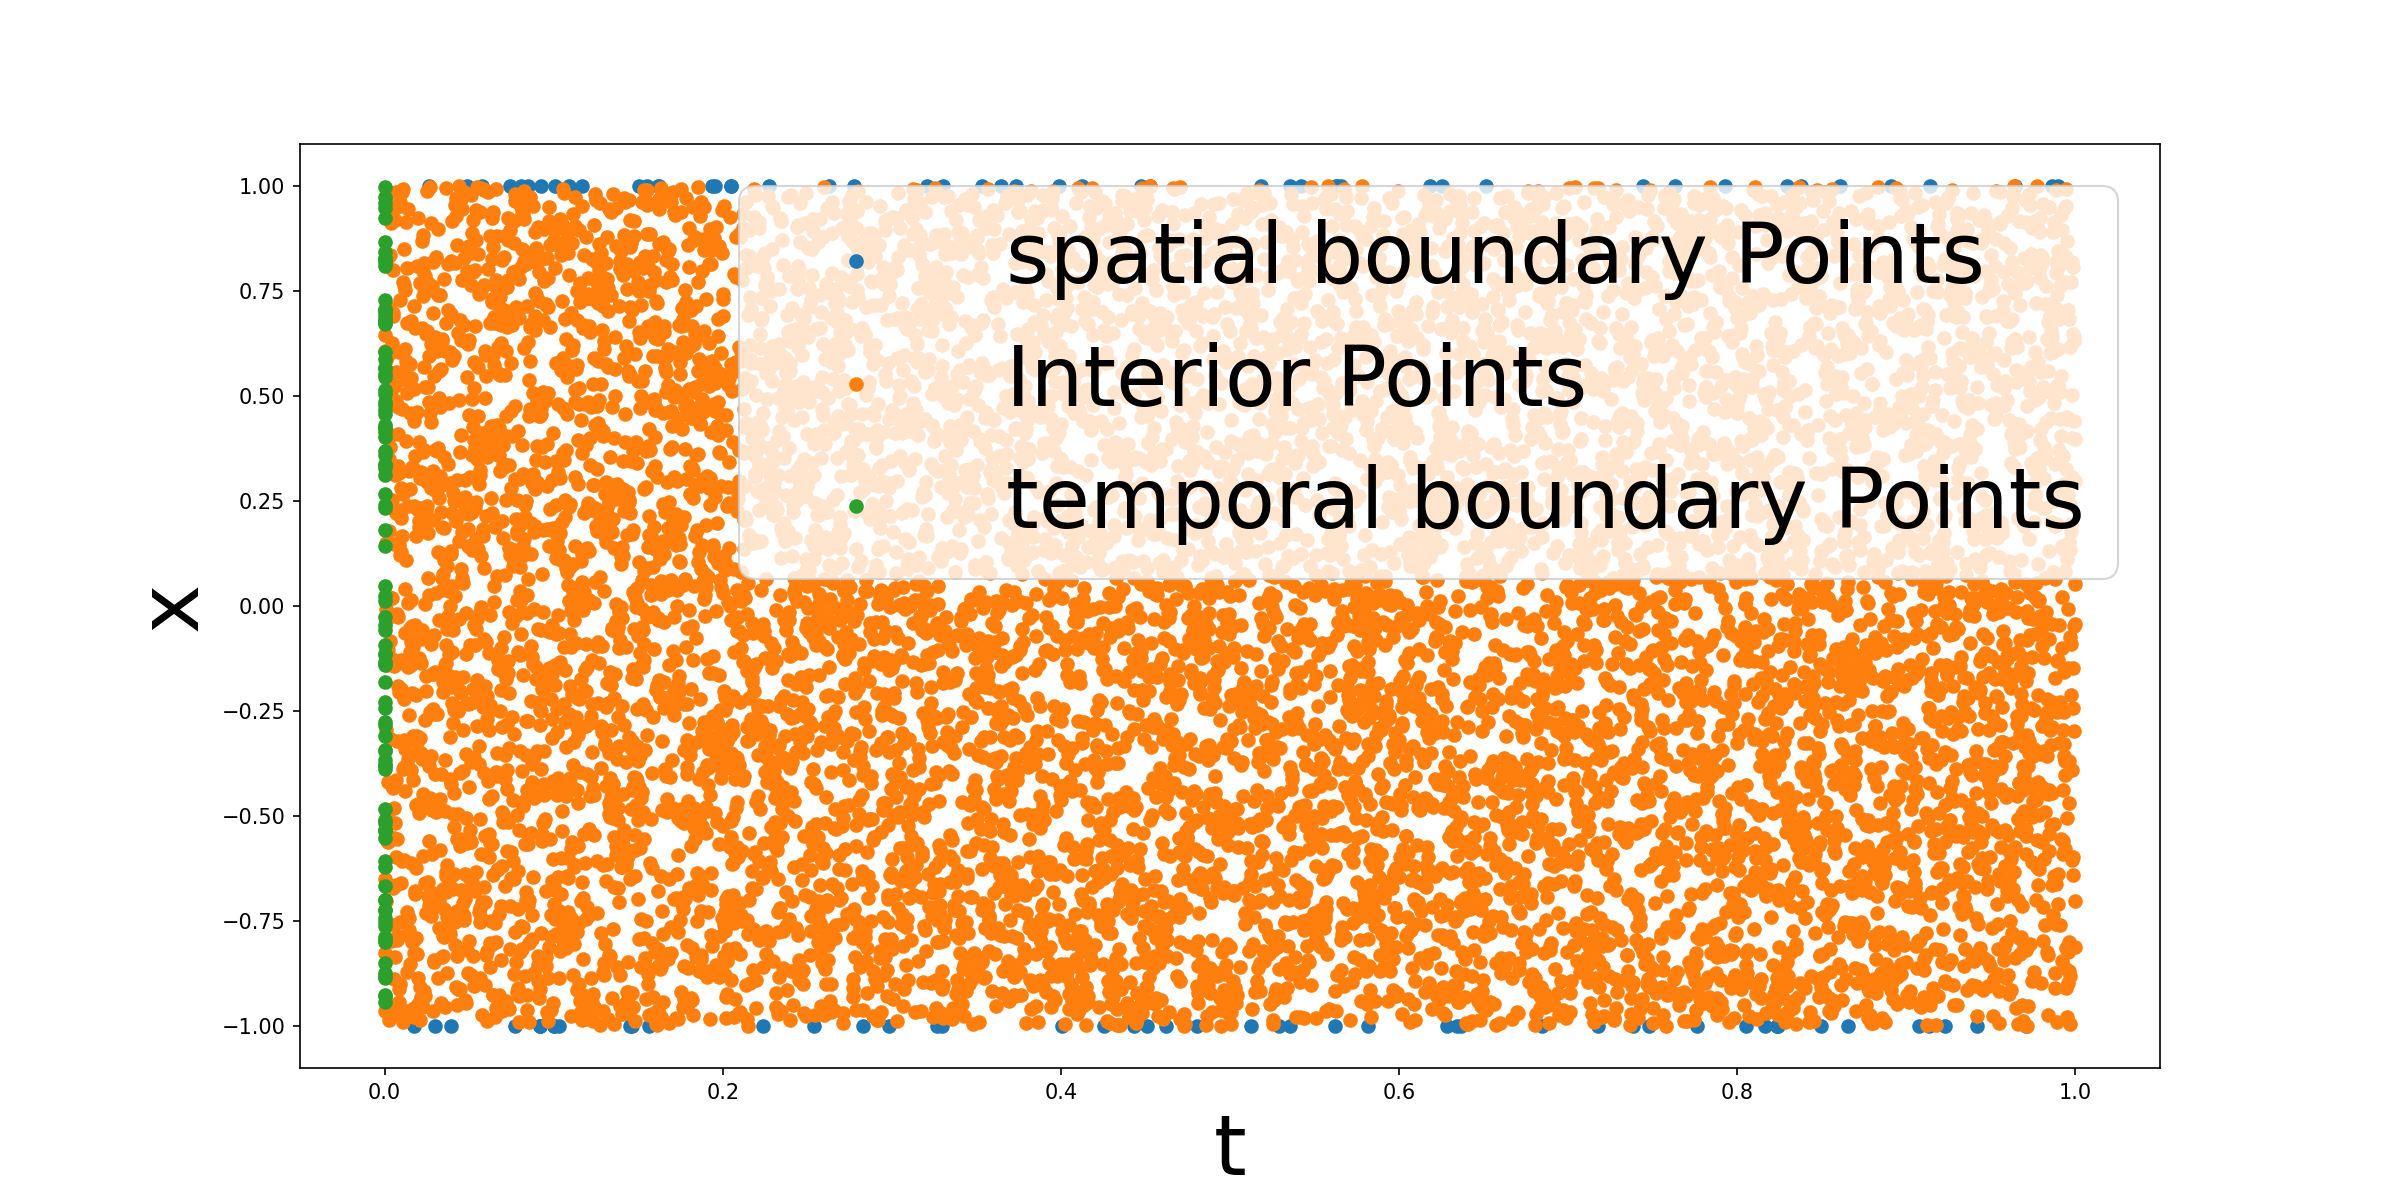
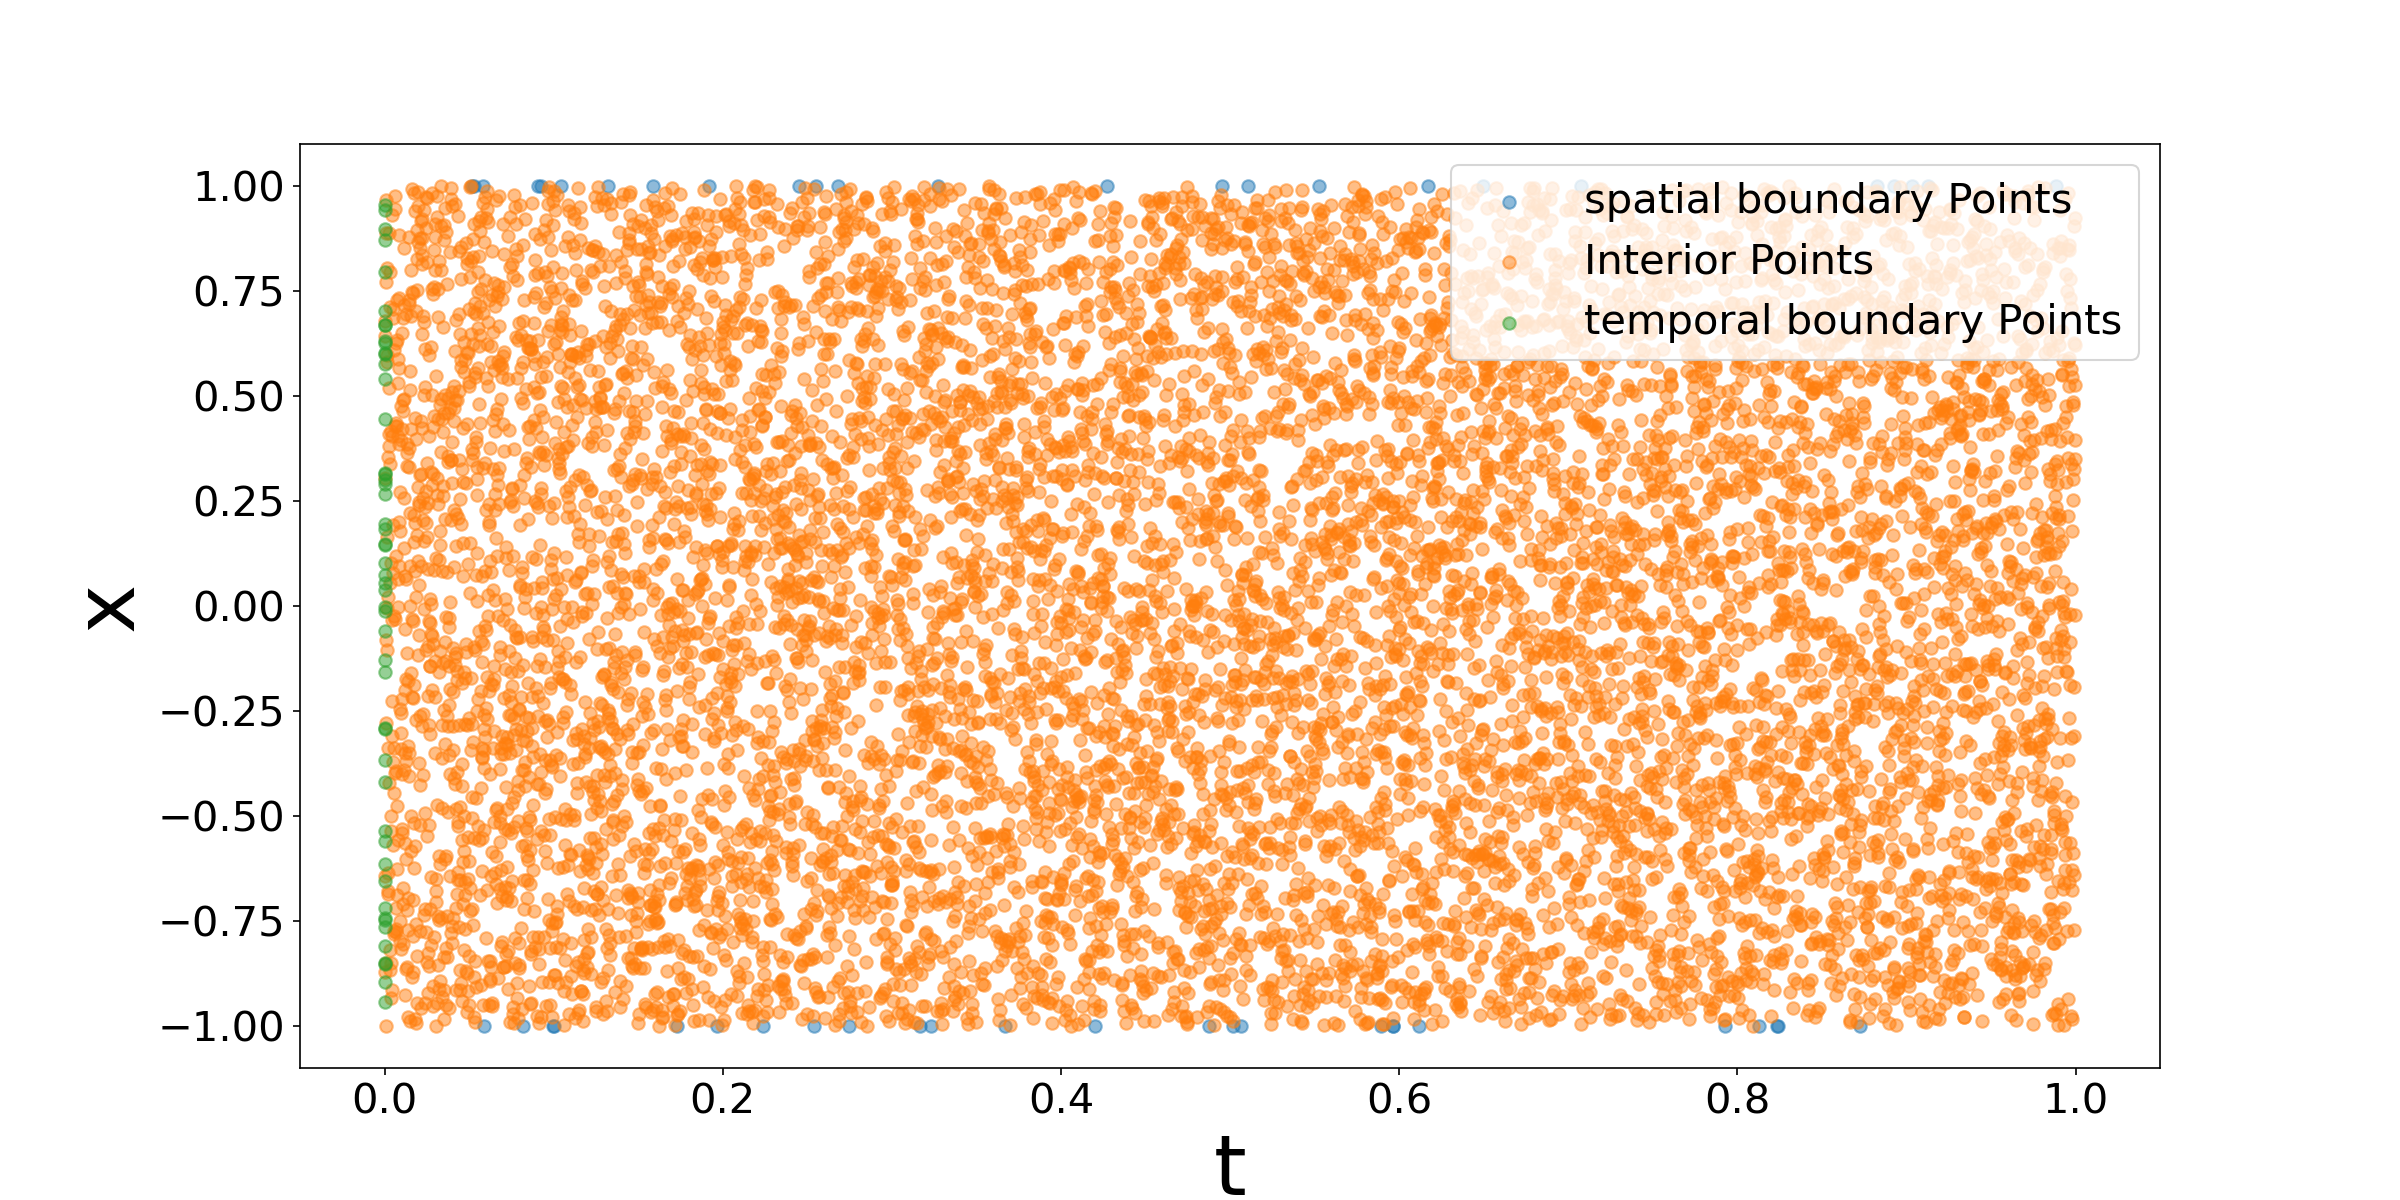
update changes

diff --git a/project/plot_result.py b/project/plot_result.py
@@ -3,24 +3,42 @@ import torch as torch
 import matplotlib.pyplot as plt
 from exact_solution import exact_solution
 
-def plotting(model, domain, num_grid=1000):
+def plotting(model, loss, domain, num_grid=1000):
     """
     plot the results
     """
+
+    # plot loss function
+    plt.figure(figsize=(16,8))
+    plt.grid(True, which="both", ls=":")
+    plt.plot(np.arange(1, len(loss["total loss"]) + 1), loss["total loss"], label="total Loss")
+    plt.plot(np.arange(1, len(loss["physics loss"]) + 1), loss["physics loss"], label="physics Loss")
+    plt.plot(np.arange(1, len(loss["boundary loss"]) + 1), loss["boundary loss"], label="boundary Loss")
+    plt.xscale("log")
+    plt.legend(fontsize=20)
+    plt.title("Plot of loss function", fontsize=40)
+    plt.xticks(fontsize=20)
+    plt.yticks(fontsize=20)
+    plt.savefig("loss_function.png")
+    plt.show()
     # plot sampling points
 
     # Plot the input training points
-    input_sb_, output_sb_ = model.add_spatial_boundary_points()
-    input_tb_, output_tb_ = model.add_temporal_boundary_points()
-    input_int_, output_int_ = model.add_interior_points()
+    # (input_sb_, u_train_sb), (input_tb_, u_train_tb), (input_int_, u_train_int) = zip(model.training_set_sb, model.training_set_tb, model.training_set_int)
+    data_sb, data_tb, data_int = iter(model.training_set_sb), iter(model.training_set_tb), iter(model.training_set_int)
+    input_sb_, output_sb_ = next(data_sb)
+    input_tb_, output_tb_ = next(data_tb)
+    input_int_, output_int_ = next(data_int)
 
     plt.figure(figsize=(16, 8), dpi=150)
-    plt.scatter(input_sb_[:, 0].detach().numpy(), input_sb_[:, 1].detach().numpy(), label="spatial boundary Points")
-    plt.scatter(input_int_[:, 0].detach().numpy(), input_int_[:, 1].detach().numpy(), label="Interior Points")
-    plt.scatter(input_tb_[:, 0].detach().numpy(), input_tb_[:, 1].detach().numpy(), label="temporal boundary Points")
+    plt.scatter(input_sb_[:, 0].detach().numpy(), input_sb_[:, 1].detach().numpy(), label="spatial boundary Points", alpha=.5)
+    plt.scatter(input_int_[:, 0].detach().numpy(), input_int_[:, 1].detach().numpy(), label="Interior Points", alpha=.5)
+    plt.scatter(input_tb_[:, 0].detach().numpy(), input_tb_[:, 1].detach().numpy(), label="temporal boundary Points", alpha=.5)
     plt.xlabel("t",fontsize=40)
     plt.ylabel("x",fontsize=40)
-    plt.legend(fontsize=40)
+    plt.legend(fontsize=20)
+    plt.xticks(fontsize=20)
+    plt.yticks(fontsize=20)
     plt.savefig("Collocation_points.png")
     plt.show()
 
@@ -38,18 +56,21 @@ def plotting(model, domain, num_grid=1000):
     im1 = axs[0].pcolormesh(t, x, exact_output.detach().numpy(), cmap="rainbow")
     axs[0].set_xlabel("t",fontsize=40)
     axs[0].set_ylabel("x",fontsize=40)
+    axs[0].tick_params(labelsize=20)
     cbar = fig.colorbar(im1, ax=axs[0])
     #axs[0].grid(True, which="both", ls=":")
 
     im2 = axs[1].pcolormesh(t, x, output.detach().numpy(), cmap="rainbow")
     axs[1].set_xlabel("t", fontsize=40)
     axs[1].set_ylabel("x", fontsize=40)
+    axs[1].tick_params(labelsize=20)
     plt.colorbar(im2, ax=axs[1])
     #axs[1].grid(True, which="both", ls=":")
 
     im3 = axs[2].pcolormesh(t, x, abs(exact_output.detach().numpy()-output.detach().numpy()), cmap="rainbow")
     axs[2].set_xlabel("t", fontsize=40)
     axs[2].set_ylabel("x", fontsize=40)
+    axs[2].tick_params(labelsize=20)
     plt.colorbar(im3, ax=axs[2])
     #axs[2].grid(True, which="both", ls=":")
 
@@ -58,6 +79,7 @@ def plotting(model, domain, num_grid=1000):
     axs[2].set_title("Absolute error", fontsize=40)
     plt.savefig("full_solution.png")
     plt.show()
+    print(abs(exact_output-output).max())
 
     # plot solution at t=0.25,0.50,0.75
     t_cross_sections = [0.25, 0.5, 0.75]
@@ -75,7 +97,9 @@ def plotting(model, domain, num_grid=1000):
         axs[i].plot(x[:,1].detach().numpy(), u_pinn.detach().numpy(), label="prediction", color="red", linestyle="--", linewidth=10, alpha=.5)
         axs[i].plot(x[:,1].detach().numpy(), u_exact.detach().numpy(), label="exact", color="blue", linestyle="-", linewidth=10, alpha=.5)
         axs[i].set_title(f"t={t_cs:.2f}", fontsize=40)
-        axs[i].legend(fontsize=40)
+        axs[i].legend(fontsize=20)
+        axs[i].tick_params(labelsize=20)
+        print(abs(u_pinn-u_exact).max())
 
 
     plt.savefig("time_cross_section.png")

diff --git a/project/test.py b/project/test.py
@@ -1,6 +1,7 @@
 import torch
 import torch.optim as optim
 import numpy as np
+import pandas as pd
 
 from PINN import PINN
 from exact_solution import exact_solution
@@ -10,10 +11,10 @@ def main():
     # input parameter for PINN
 
     # collocation parameters
-    n_int, n_sb = 10000, 100
-    n_tb = 200-n_sb
+    n_int, n_sb = 10000, 50
+    n_tb = 100-n_sb
     # NN parameters
-    neurons, n_hidden = 20, 9
+    neurons, n_hidden = 20, 9 # 20 neurons per hidden layer and 7 hidden layers (9 layers in total)
 
     # physics domain
     domain = torch.tensor([[0., 1.], # time domain
@@ -25,7 +26,7 @@ def main():
     # batch parameters
     n_batches = 1
     # number of epochs
-    n_epochs = 1000
+    n_epochs = 100
 
 
     # PINN training
@@ -42,16 +43,17 @@ def main():
         # ADAM optimizer
         optimizer_ADAM = optim.Adam(model.approximate_solution.parameters(),
                                     lr=float(0.001))
-        hist = model.fit(num_epochs=n_epochs,
+        loss = model.fit(num_epochs=n_epochs,
                     optimizer=optimizer_LBFGS,
                     verbose=True)
         # save the model after training
         model.save_model(path="/Users/pauliebao/AI_for_chemistry/PINN_problem/PINN_project/results/PINN_burger.th")
     else:
         model.load_model(path="/Users/pauliebao/AI_for_chemistry/PINN_problem/PINN_project/results/PINN_burger.th")
+        loss = pd.read_json("loss_function.json")
 
     # plot results
-    plotting(model, domain)
+    plotting(model, loss, domain)
 
     return
 

diff --git a/project/PINN.py b/project/PINN.py
@@ -19,7 +19,7 @@ class NeuralNet(nn.Module):
         neurons: Number of hidden layer dimension
         retrain_seed: random seed for initial weights
         """
-        # Activation function
+        # Activation function (hyperbolic tangent)
         activation = nn.Tanh
 
         self.retrain_seed = retrain_seed
@@ -30,7 +30,7 @@ class NeuralNet(nn.Module):
         self.fch = nn.Sequential(*[
             nn.Sequential(*[
             nn.Linear(neurons, neurons),
-            activation()]) for _ in range(n_hidden_layers - 1)])
+            activation()]) for _ in range(n_hidden_layers)])
 
         self.fce = nn.Linear(neurons, output_dimension)
 
@@ -266,5 +266,11 @@ class PINN(object):
                 # update weights
                 optimizer.step(closure=closure)
                 break
+
+
+        # store loss function data a json
+        import pandas as pd
+        df = pd.DataFrame(history)
+        df.to_json("loss_function.json")
 
         return history
